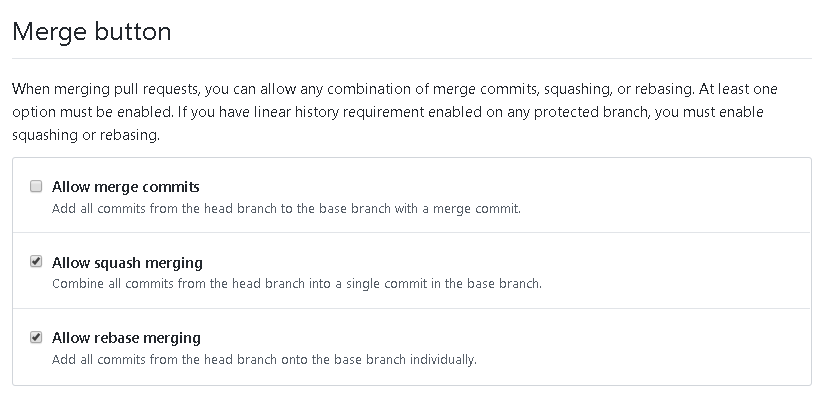
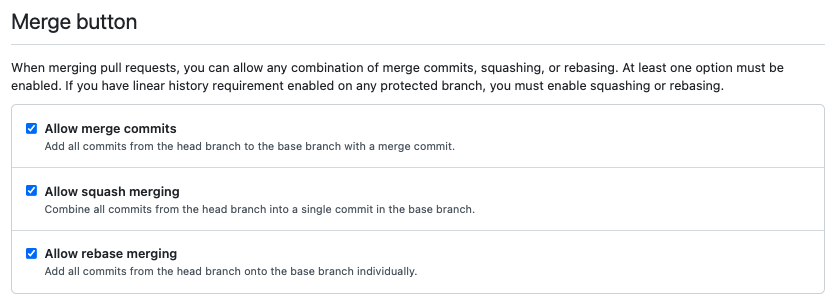
update documentation pages for installing buildtest contributing guide in maintainer section update image screenshots for branch setting and merge option a few example commands were returning exit code 1 during documentation build which required a returncode match in order to build docs

diff --git a/docs/contributing/maintainer_guide.rst b/docs/contributing/maintainer_guide.rst
@@ -11,22 +11,20 @@ These are just a few points to consider when dealing with incoming pull requests
 
 1. Any incoming Pull Request should be assigned to one or more maintainers for review.
 
-2. Upon approval, the PR should be **Squash and Merge**. If it's important to preserve a few commits during PR then **Rebase and Merge** is acceptable.
+2. Upon approval, the PR should be **Create a merge commit** or **Squash and merge** depending on your preference. To preserve commit history please use **Create a merge commit** though sometimes it can be useful to do Squash commit. For more details on merge request see https://docs.github.com/en/github/collaborating-with-pull-requests/incorporating-changes-from-a-pull-request/merging-a-pull-request
 
-3. The final commit PR commit, either Squash Commit or Rebase should have meaningful comments and if possible link to the github issue.
+3. Maintainers can request user to put meaningful commit if author has not provided a meaningful message (i.e ``git commit --amend``)
 
-4. Maintainers can request user to put meaningful commit if author has not provided a meaningful message (i.e ``git commit --amend``)
+4. Maintainers are requested that committer name and email is from a valid Github account. If not please request the committer to fix the author name and email.
 
-5. Maintainers are requested that committer name and email is from a valid Github account. If not please request the committer to fix the author name and email.
-
-6. All incoming PRs should be pushed to ``devel`` branch, if you see any PR sent to any other branch please inform code owner to fix it
+5. All incoming PRs should be pushed to `devel <https://github.com/buildtesters/buildtest/tree/devel>`_ branch, if you see any PR sent to any other branch please inform code owner to fix it
 
 
 Release Process
 -----------------
 
-Every buildtest release will be tagged with a version number using format **X.Y.Z**. Every release will have a git tags
-such as ``v1.2.3`` to correspond to release **1.2.3**. Git tags should be pushed to upstream by **release manager** only.
+Every buildtest release will be tagged with a version number using format **X.Y.Z**. Every release will have a tag that corresponds
+to a release such as ``v1.2.3``. Git tags should be pushed to upstream by **release manager** only.
 The process for pushing git tags can be described in the following article:  `Git Basics - Tagging <https://git-scm.com/book/en/v2/Git-Basics-Tagging>`_
 
 We will create annotated tags as follows::
@@ -54,7 +52,7 @@ branch from devel.
 Default Branch
 ------------------
 
-The default branch should be  ``devel`` which should be protected branch.
+The default branch is `devel <https://github.com/buildtesters/buildtest/tree/devel>`_ and this should be `protected branch <https://docs.github.com/en/github/administering-a-repository/defining-the-mergeability-of-pull-requests/about-protected-branches>`_.
 
 Branch Settings
 ----------------
@@ -70,11 +68,8 @@ below is the expected configuration.
 Merge Settings
 ----------------
 
-We have disabled ``Merge Commits`` for the Merge button in Pull Request.  This was done because we
-wanted a linear history as a requirement for ``devel`` branch. This avoids having a maintainer accidently
-merge a PR with ``Merge Commit`` which adds an extra commit.
-
-Shown below is the recommended configuration.
+We have enabled all commit types i.e (merge commits, squash merging, rebase merging) for merging Pull Request.  Shown below is the
+recommended configuration, if you see a deviation please inform the maintainers.
 
 .. image:: buildtest_merge_options.png
 
@@ -83,16 +78,16 @@ If you notice a deviation, please consult with the maintainers.
 Google Analytics
 -----------------
 
-The buildtest site is tracked via Google Analytics, if you are interested in get access contact **Shahzeb Siddiqui (@shahzebsiddiqui)**
+The buildtest site is tracked via Google Analytics, if you are interested in get access contact **Shahzeb Siddiqui** `@shahzebsiddiqui <https://github.com/shahzebsiddiqui/>`_
 
 Read The Docs Access
 ---------------------
 
 buildtest project for readthedocs can be found at https://readthedocs.org/projects/buildtest/. If you need
-to administer project configuration, please contact **Shahzeb Siddiqui @shahzebsiddiqui** to gain access.
+to administer project configuration, please contact **Shahzeb Siddiqui** `@shahzebsiddiqui <https://github.com/shahzebsiddiqui/>`_ to gain access.
 
 Slack Admin Access
 -------------------
 
-If you need admin access to Slack Channel please contact **Shahzeb Siddiqui @shahzebsiddiqui**. The
+If you need admin access to Slack Channel please contact **Shahzeb Siddiqui** `@shahzebsiddiqui <https://github.com/shahzebsiddiqui/>`_. The
 slack admin link is https://hpcbuildtest.slack.com/admin

diff --git a/docs/installing_buildtest.rst b/docs/installing_buildtest.rst
@@ -29,7 +29,36 @@ If you prefer the latest release use the **master** branch::
 Installing buildtest
 -----------------------
 
-To install buildtest, navigate to buildtest repo and source the setup script as follows::
+buildtest requires a python 3.7 or higher, we recommend you setup a python environment in order
+to install buildtest. You can use `venv <https://docs.python.org/3/library/venv.html>`_, `conda <https://conda.io/>`_,
+or `pipenv <https://pipenv.readthedocs.io/en/latest/>`_ to manage your python environment depending on your preference.
+
+venv Setup
+~~~~~~~~~~~
+
+.. code-block::
+
+    python3 -m venv $HOME/buildtest
+    source $HOME/buildtest/activate
+
+Conda Setup
+~~~~~~~~~~~~~
+
+.. code-block::
+
+    conda create -n buildtest python=3.7
+    source activate buildtest
+
+Pipenv Setup
+~~~~~~~~~~~~~
+
+.. code-block::
+
+    pipenv --python 3.7
+    pipenv shell
+
+Once you have your python environment setup, you can install buildtest, by sourcing the setup script
+depending on your shell type::
 
     # BASH users
     $ source setup.sh
@@ -39,15 +68,6 @@ To install buildtest, navigate to buildtest repo and source the setup script as 
 
 This will add ``buildtest`` command in your $PATH and set environment variable
 **$BUILDTEST_ROOT** which points to root of buildtest repo.
-
-You may want to create an isolated python environment of choice depending on your
-preference you can use any of the following:
-
-- `virtualenv <https://virtualenv.pypa.io/en/latest/>`_
-
-- `conda <https://conda.io/>`_
-
-- `pipenv <https://pipenv.readthedocs.io/en/latest/>`_
 
 buildtest will provide tab completion for bash shell, this is managed by script `bash_completion.sh <https://github.com/buildtesters/buildtest/blob/devel/bash_completion.sh>`_,
 if you encounter any issues with tab completion please raise an issue at https://github.com/buildtesters/buildtest/issues/.

diff --git a/docs/gettingstarted/additionalfeatures.rst b/docs/gettingstarted/additionalfeatures.rst
@@ -152,3 +152,23 @@ Next we upload the tests using the ``-r`` option to specify the report file
 The ``buildtest cdash view`` command can be used to open CDASH project in a web browser
 using the command line. This feature assumes you have set the CDASH setting in your
 configuration file.
+
+Cleaning buildtest files
+--------------------------
+
+The ``buildtest clean`` command can be used to remove files generated by buildtest such
+as test files, report files, buildspec cache, and history files. You will be prompted for
+response to clean up files for confirmation. If you want to avoid user response you can use ``buildtest clean -y``
+to accept confirmation for all prompts and buildtest will remove the files.
+
+.. code-block:: console
+
+    $ buildtest clean
+    Remove Test Directory /Users/siddiq90/Documents/GitHubDesktop/buildtest/var/tests (y/n) [default: y]
+    Remove Report File /Users/siddiq90/Documents/GitHubDesktop/buildtest/var/report.json (y/n) [default: y]
+    Remove History Directory /Users/siddiq90/Documents/GitHubDesktop/buildtest/var/.history (y/n) [default: y]
+    Remove Buildspec Cache /Users/siddiq90/Documents/GitHubDesktop/buildtest/var/buildspecs/cache.json (y/n) [default: y]
+    ======> Remove Test Directory
+    ======> Removing Report File
+    ======> Removing History Directory
+    ======> Removing buildspec cache

diff --git a/docs/contributing/build_documentation.rst b/docs/contributing/build_documentation.rst
@@ -30,7 +30,7 @@ To install your python packages, you can run the following::
 Building docs locally
 -----------------------
 
-To build your documentation simply run the following::
+To build your documentation, navigate to the `docs` directory and run the following::
 
   cd docs
   make clean
@@ -41,16 +41,12 @@ content from previous builds, but it is ok to skip this step if you are
 making minor changes.
 
 Running ``make html`` will build the sphinx project and generate all the html
-files in ``docs/_build/html``. Once this process is complete you may want to view
-the documentation. If you have ``firefox`` in your system you can simply run the
-following::
+files in ``docs/_build/html``. Once this process is complete you can view the html
+pages by running the following::
 
-  make view
+    open _build/html/index.html
 
-This will open a ``firefox`` session to the root of your documentation that was
-recently generated. Make sure you have X11 forwarding in order for firefox to
-work properly. Refer to the ``Makefile`` to see all of the make tags or run
-``make`` or ``make help`` for additional help.
+Please refer to the ``Makefile`` to see list of tags or run ``make`` for additional help.
 
 Automate Documentation Examples
 --------------------------------

diff --git a/docs/contributing/regression_testing.rst b/docs/contributing/regression_testing.rst
@@ -122,11 +122,12 @@ regression test run locally. Shown below is an example output:
     -------------------------------------------------------------------------------
     TOTAL                                       3179   1005   1246    147    66.19%
 
-4 empty files skipped.
+    4 empty files skipped.
 
 If you want to view the coverage details locally in a browser you can run: ``coverage html`` which will
 write the results to directory **htmlcov**. You can open the file ``open htmlcov/index.html`` and it will show you
-a summary of coverage results that you would see from codecov.
+a summary of coverage results that you would see from codecov. Shown below is a preview of coverage report that
+you would see after running your regression test.
 
 .. image:: coverage_locally.png
 

diff --git a/docs/gettingstarted/buildingtest.rst b/docs/gettingstarted/buildingtest.rst
@@ -257,6 +257,7 @@ the test script will not be generated. Here is an example where we have an inval
 buildspec.
 
 .. command-output:: buildtest build -b tutorials/invalid_buildspec_section.yml
+    :returncode: 1
 
 buildtest may skip tests from running if buildspec specifies an invalid
 executor name since buildtest needs to know this in order to delegate test
@@ -264,7 +265,7 @@ to Executor class responsible for running the test. Here is an example
 where test failed to run since we provided invalid executor.
 
 .. command-output:: buildtest build -b tutorials/invalid_executor.yml
-
+    :returncode: 1
 
 Rebuild Tests
 --------------

diff --git a/docs/buildspecs/buildspec_overview.rst b/docs/buildspecs/buildspec_overview.rst
@@ -788,6 +788,7 @@ Now if we run this test we see buildtest will skip test **run_only_as_root** bec
 current user is not root.
 
 .. command-output:: buildtest build -b tutorials/root_user.yml
+    :returncode: 1
 
 run_only - platform
 ~~~~~~~~~~~~~~~~~~~~
@@ -828,7 +829,7 @@ If we build this test on a target system without LSF notice that buildtest skips
 test **show_host_groups**.
 
 .. command-output:: buildtest build -b general_tests/sched/lsf/bmgroups.yml
-
+    :returncode: 1
 
 run_only - linux_distro
 ~~~~~~~~~~~~~~~~~~~~~~~~
